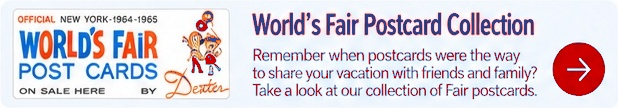
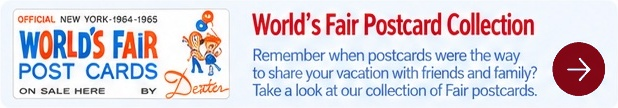
Limit artifacts card hover to link-indicator color swap
Regenerate hover crops so only the circular arrow indicator swaps
navy↔burgundy; title, body text, and thumbnails stay unchanged.

diff --git a/src/components/ArtifactsLinks.tsx b/src/components/ArtifactsLinks.tsx
@@ -2,7 +2,7 @@ import Image from "next/image";
 import Link from "next/link";
 import styles from "./ArtifactsLinks.module.css";
 
-/** Exact user artwork — base unchanged. Hover crops swap burgundy↔navy on text/arrows only; thumbnails untouched. */
+/** Exact user artwork — base unchanged. Hover crops swap navy↔burgundy on the circular link indicator only; text and thumbnails untouched. */
 const TOPICS = [
   {
     id: "images-of-america",

diff --git a/src/components/ArtifactsLinks.module.css b/src/components/ArtifactsLinks.module.css
@@ -1,4 +1,4 @@
-/* User-provided Artifacts link grid — hover crops swap navy↔burgundy on text/arrows only */
+/* User-provided Artifacts link grid — hover crops swap navy↔burgundy on the circular link indicator only */
 
 .section {
   width: 100%;
